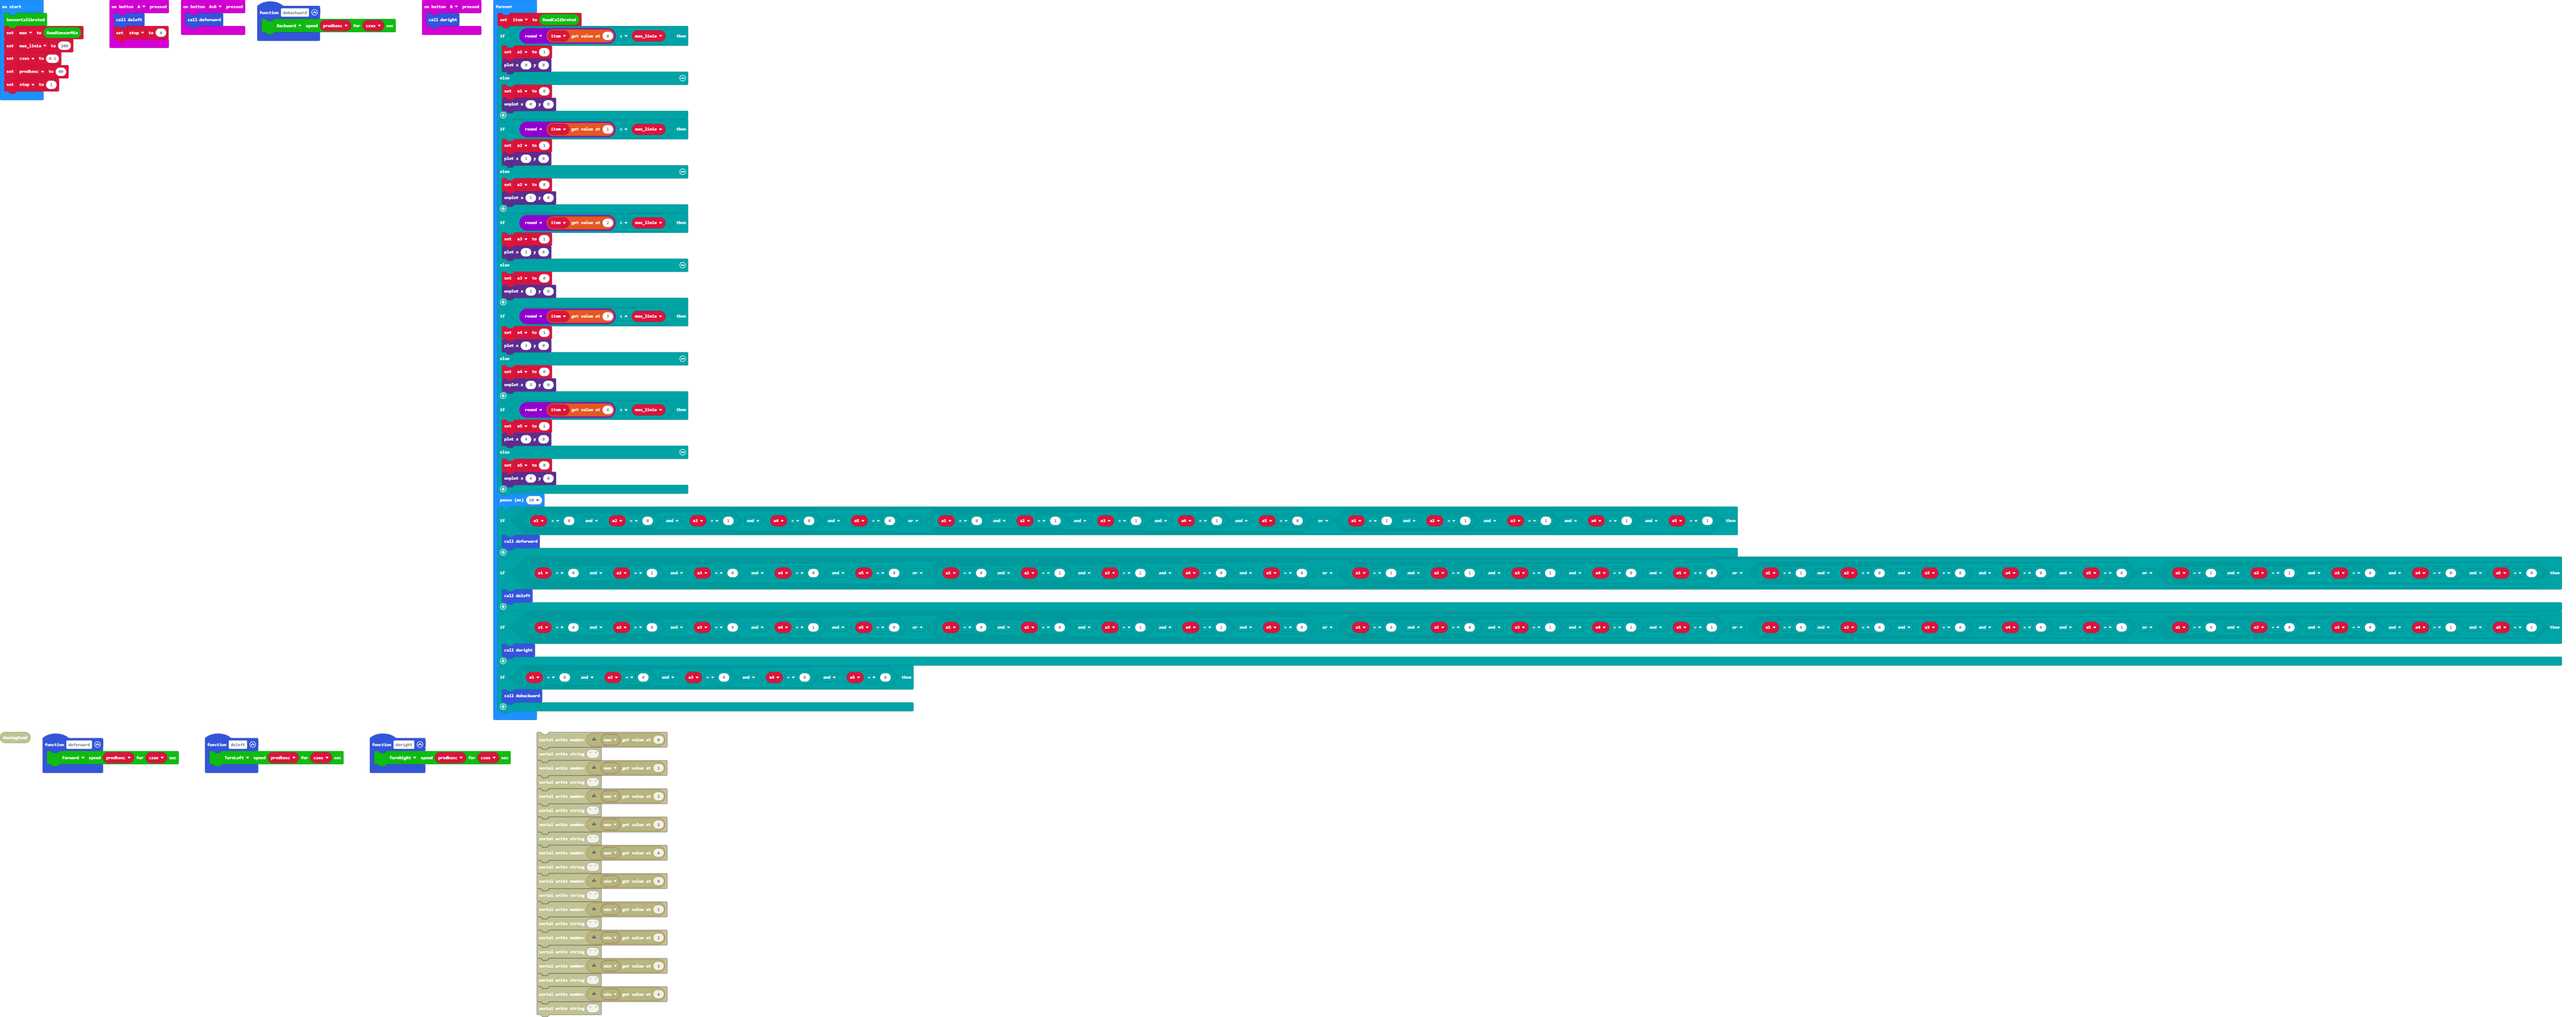
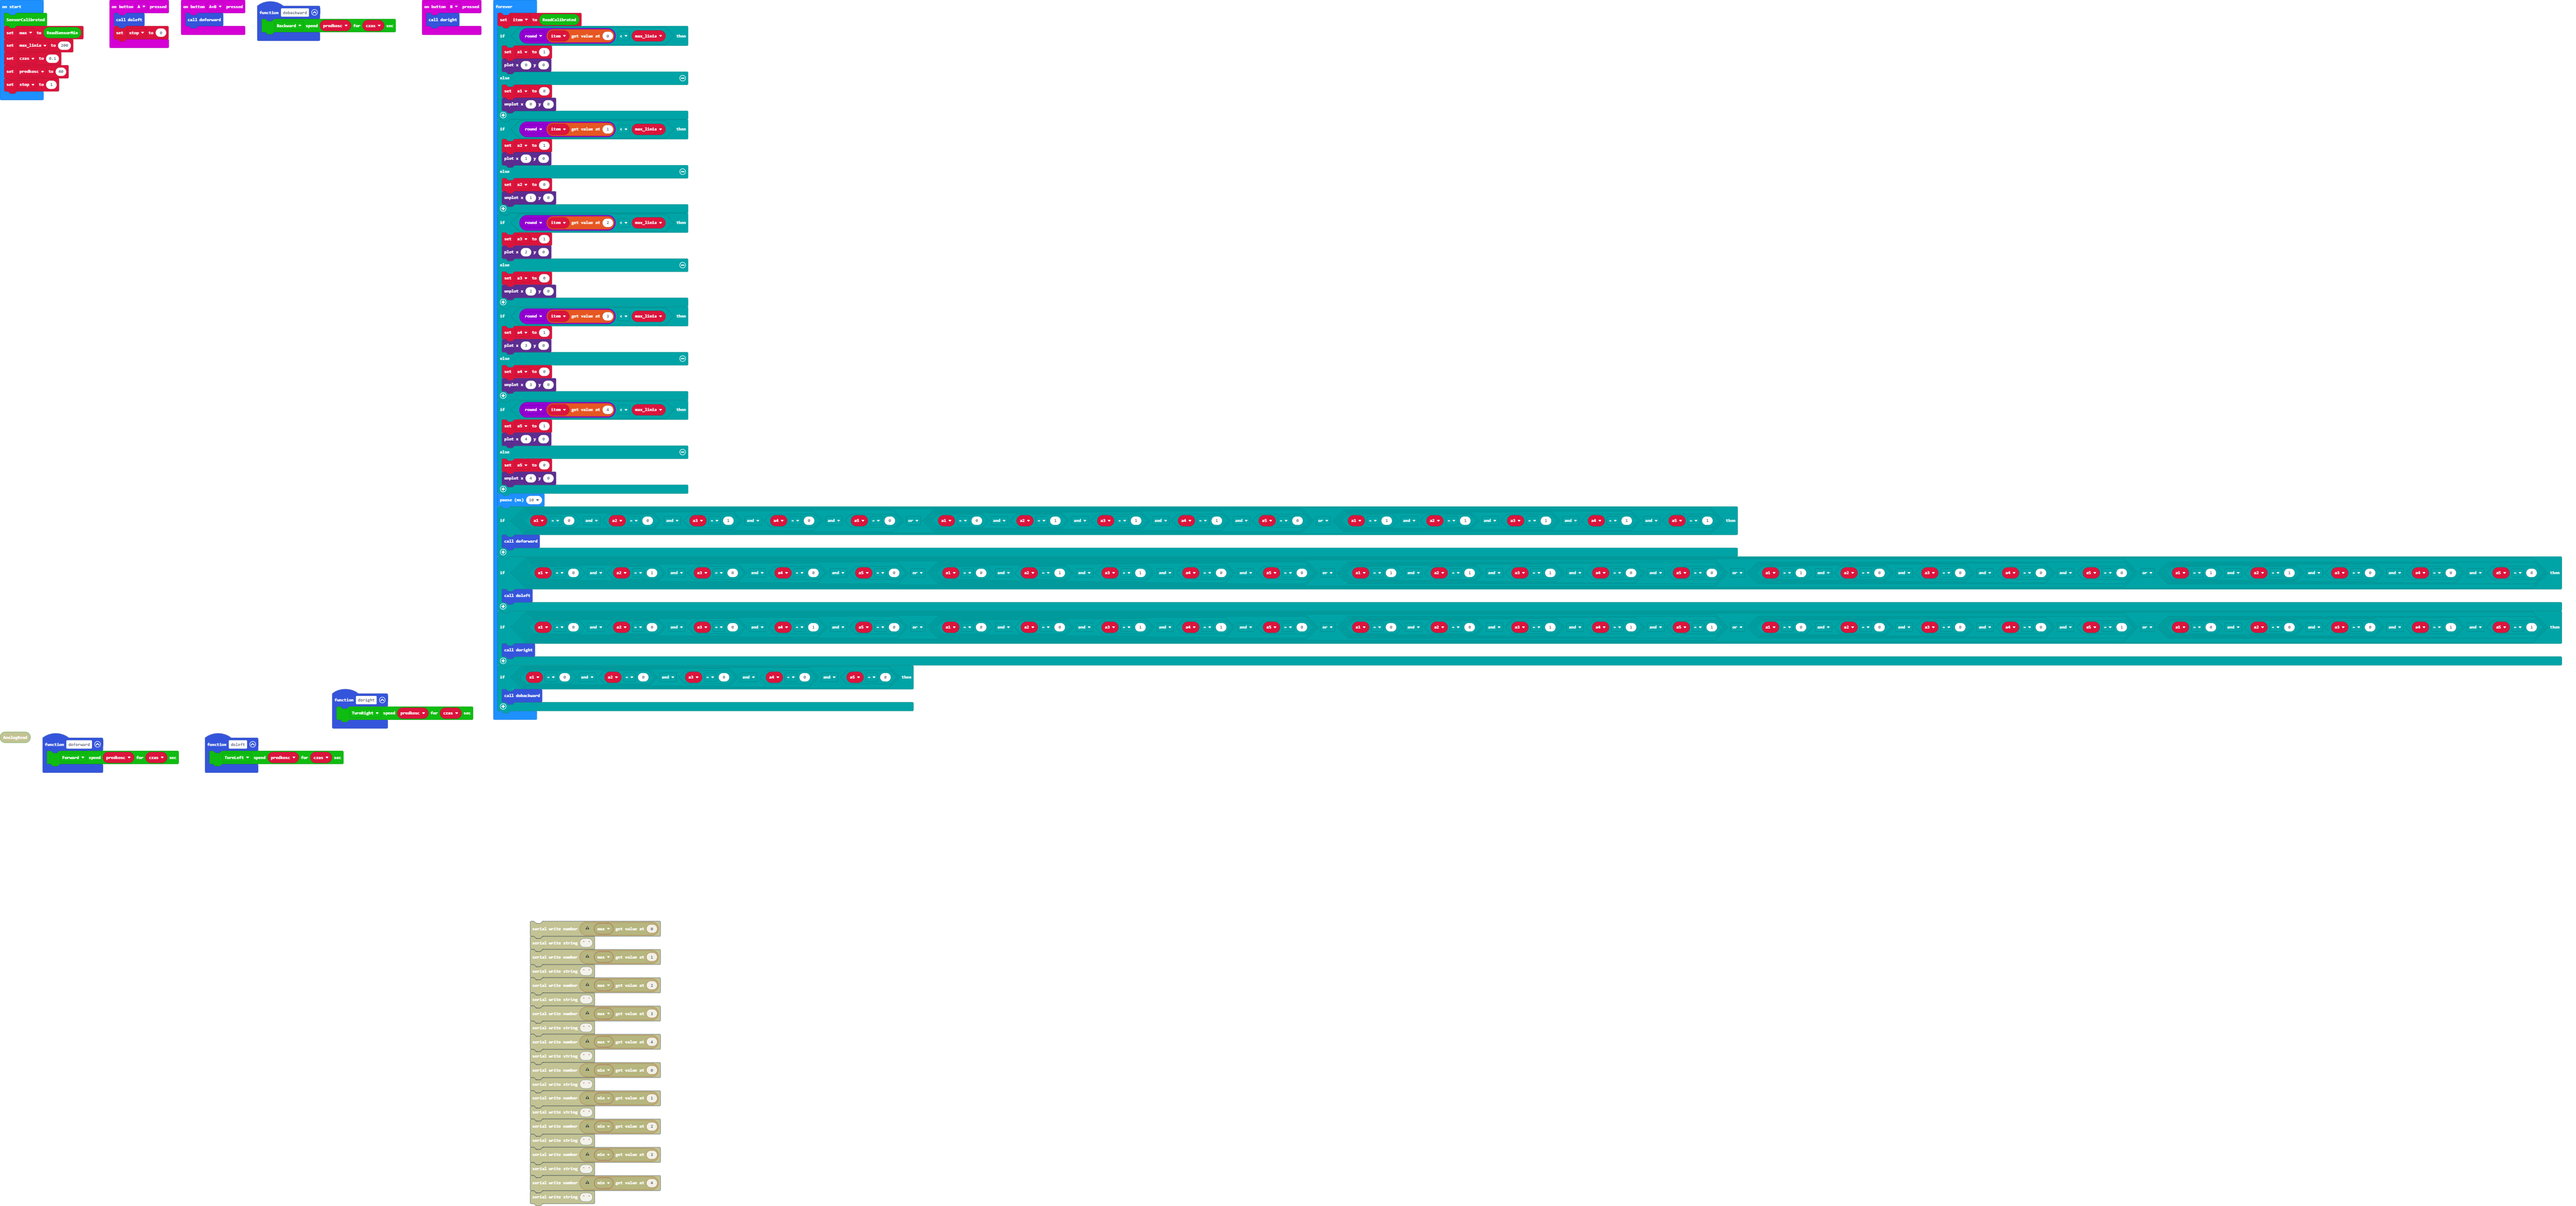
Update pxt.json, main.blocks, main.ts

Changed region(s): [[0.0, 0.0, 1.0, 1.0]]

diff --git a/main.ts b/main.ts
@@ -73,16 +73,16 @@ basic.forever(function () {
         led.unplot(4, 0)
     }
     basic.pause(10)
-    if (a1 == 0 && a2 == 0 && a3 == 1 && a4 == 0 && a5 == 0 || a1 == 0 && a2 == 1 && a3 == 1 && a4 == 1 && a5 == 0 || a1 == 1 && a2 == 1 && a3 == 1 && a4 == 1 && a5 == 1) {
+    if (a1 == 0 && a2 == 0 && a3 == 1 && a4 == 0 && a5 == 0 || a1 == 0 && a2 == 1 && a3 == 1 && a4 == 1 && a5 == 0 || a1 == 1 && a2 == 1 && a3 == 1 && a4 == 1 && a5 == 1 || a1 == 1 && a2 == 0 && a3 == 1 && a4 == 0 && a5 == 0 || a1 == 0 && a2 == 0 && a3 == 1 && a4 == 0 && a5 == 1 || a1 == 1 && a2 == 0 && a3 == 1 && a4 == 0 && a5 == 1  ) {
         doforward()
     }
-    if (a1 == 0 && a2 == 1 && a3 == 0 && a4 == 0 && a5 == 0 || a1 == 0 && a2 == 1 && a3 == 1 && a4 == 0 && a5 == 0 || a1 == 1 && a2 == 1 && a3 == 1 && a4 == 0 && a5 == 0 || a1 == 1 && a2 == 0 && a3 == 0 && a4 == 0 && a5 == 0 || a1 == 1 && a2 == 1 && a3 == 0 && a4 == 0 && a5 == 0) {
+    if (a1 == 0 && a2 == 1 && a3 == 0 && a4 == 0 && a5 == 0 || a1 == 0 && a2 == 1 && a3 == 1 && a4 == 0 && a5 == 0 || a1 == 1 && a2 == 1 && a3 == 1 && a4 == 0 && a5 == 0 || a1 == 1 && a2 == 0 && a3 == 0 && a4 == 0 && a5 == 0 || a1 == 1 && a2 == 1 && a3 == 0 && a4 == 0 && a5 == 0 || a1 == 1 && a2 == 1 && a3 == 0 && a4 == 1 && a5 == 0 || a1 == 1 && a2 == 1 && a3 == 0 && a4 == 0 && a5 == 1 ) {
         doleft()
     }
-    if (a1 == 0 && a2 == 0 && a3 == 0 && a4 == 1 && a5 == 0 || a1 == 0 && a2 == 0 && a3 == 1 && a4 == 1 && a5 == 0 || a1 == 0 && a2 == 0 && a3 == 1 && a4 == 1 && a5 == 1 || a1 == 0 && a2 == 0 && a3 == 0 && a4 == 0 && a5 == 1 || a1 == 0 && a2 == 0 && a3 == 0 && a4 == 1 && a5 == 1) {
+    if (a1 == 0 && a2 == 0 && a3 == 0 && a4 == 1 && a5 == 0 || a1 == 0 && a2 == 0 && a3 == 1 && a4 == 1 && a5 == 0 || a1 == 0 && a2 == 0 && a3 == 1 && a4 == 1 && a5 == 1 || a1 == 0 && a2 == 0 && a3 == 0 && a4 == 0 && a5 == 1 || a1 == 0 && a2 == 0 && a3 == 0 && a4 == 1 && a5 == 1 || a1 == 0 && a2 == 1 && a3 == 0 && a4 == 1 && a5 == 1 || a1 == 1 && a2 == 0 && a3 == 0 && a4 == 1 && a5 == 1) {
         doright()
     }
     if (a1 == 0 && a2 == 0 && a3 == 0 && a4 == 0 && a5 == 0) {
         dobackward()
     }
-})
+}
